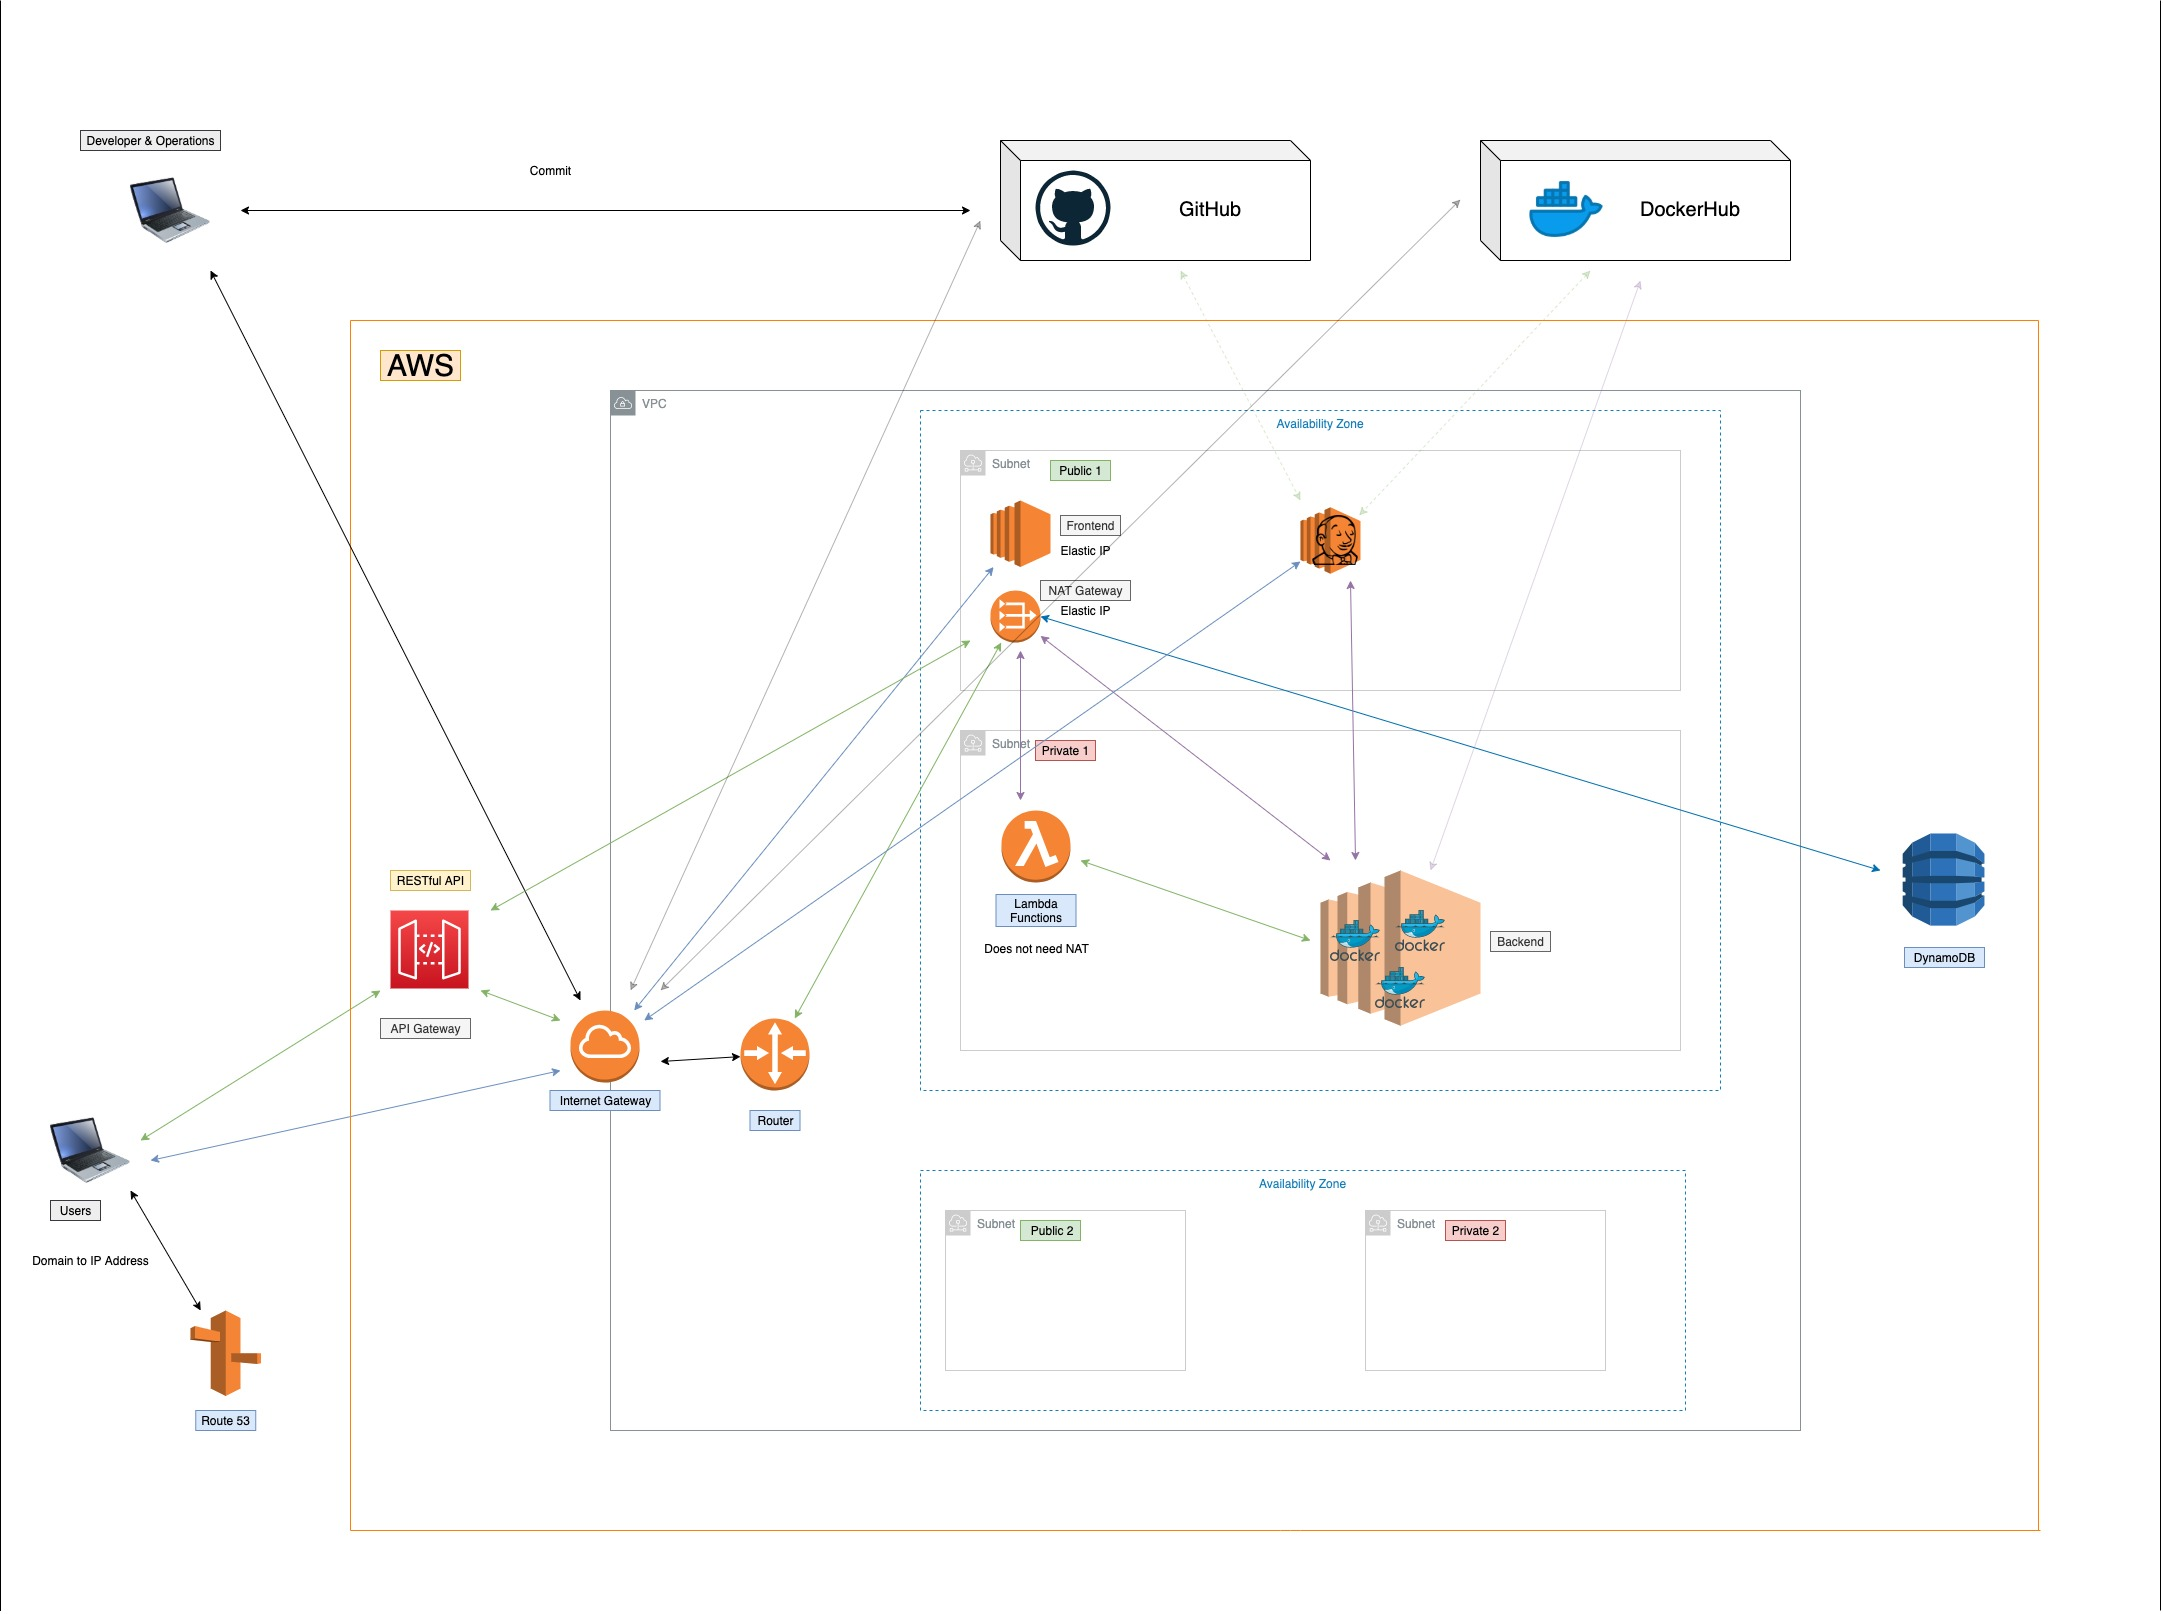
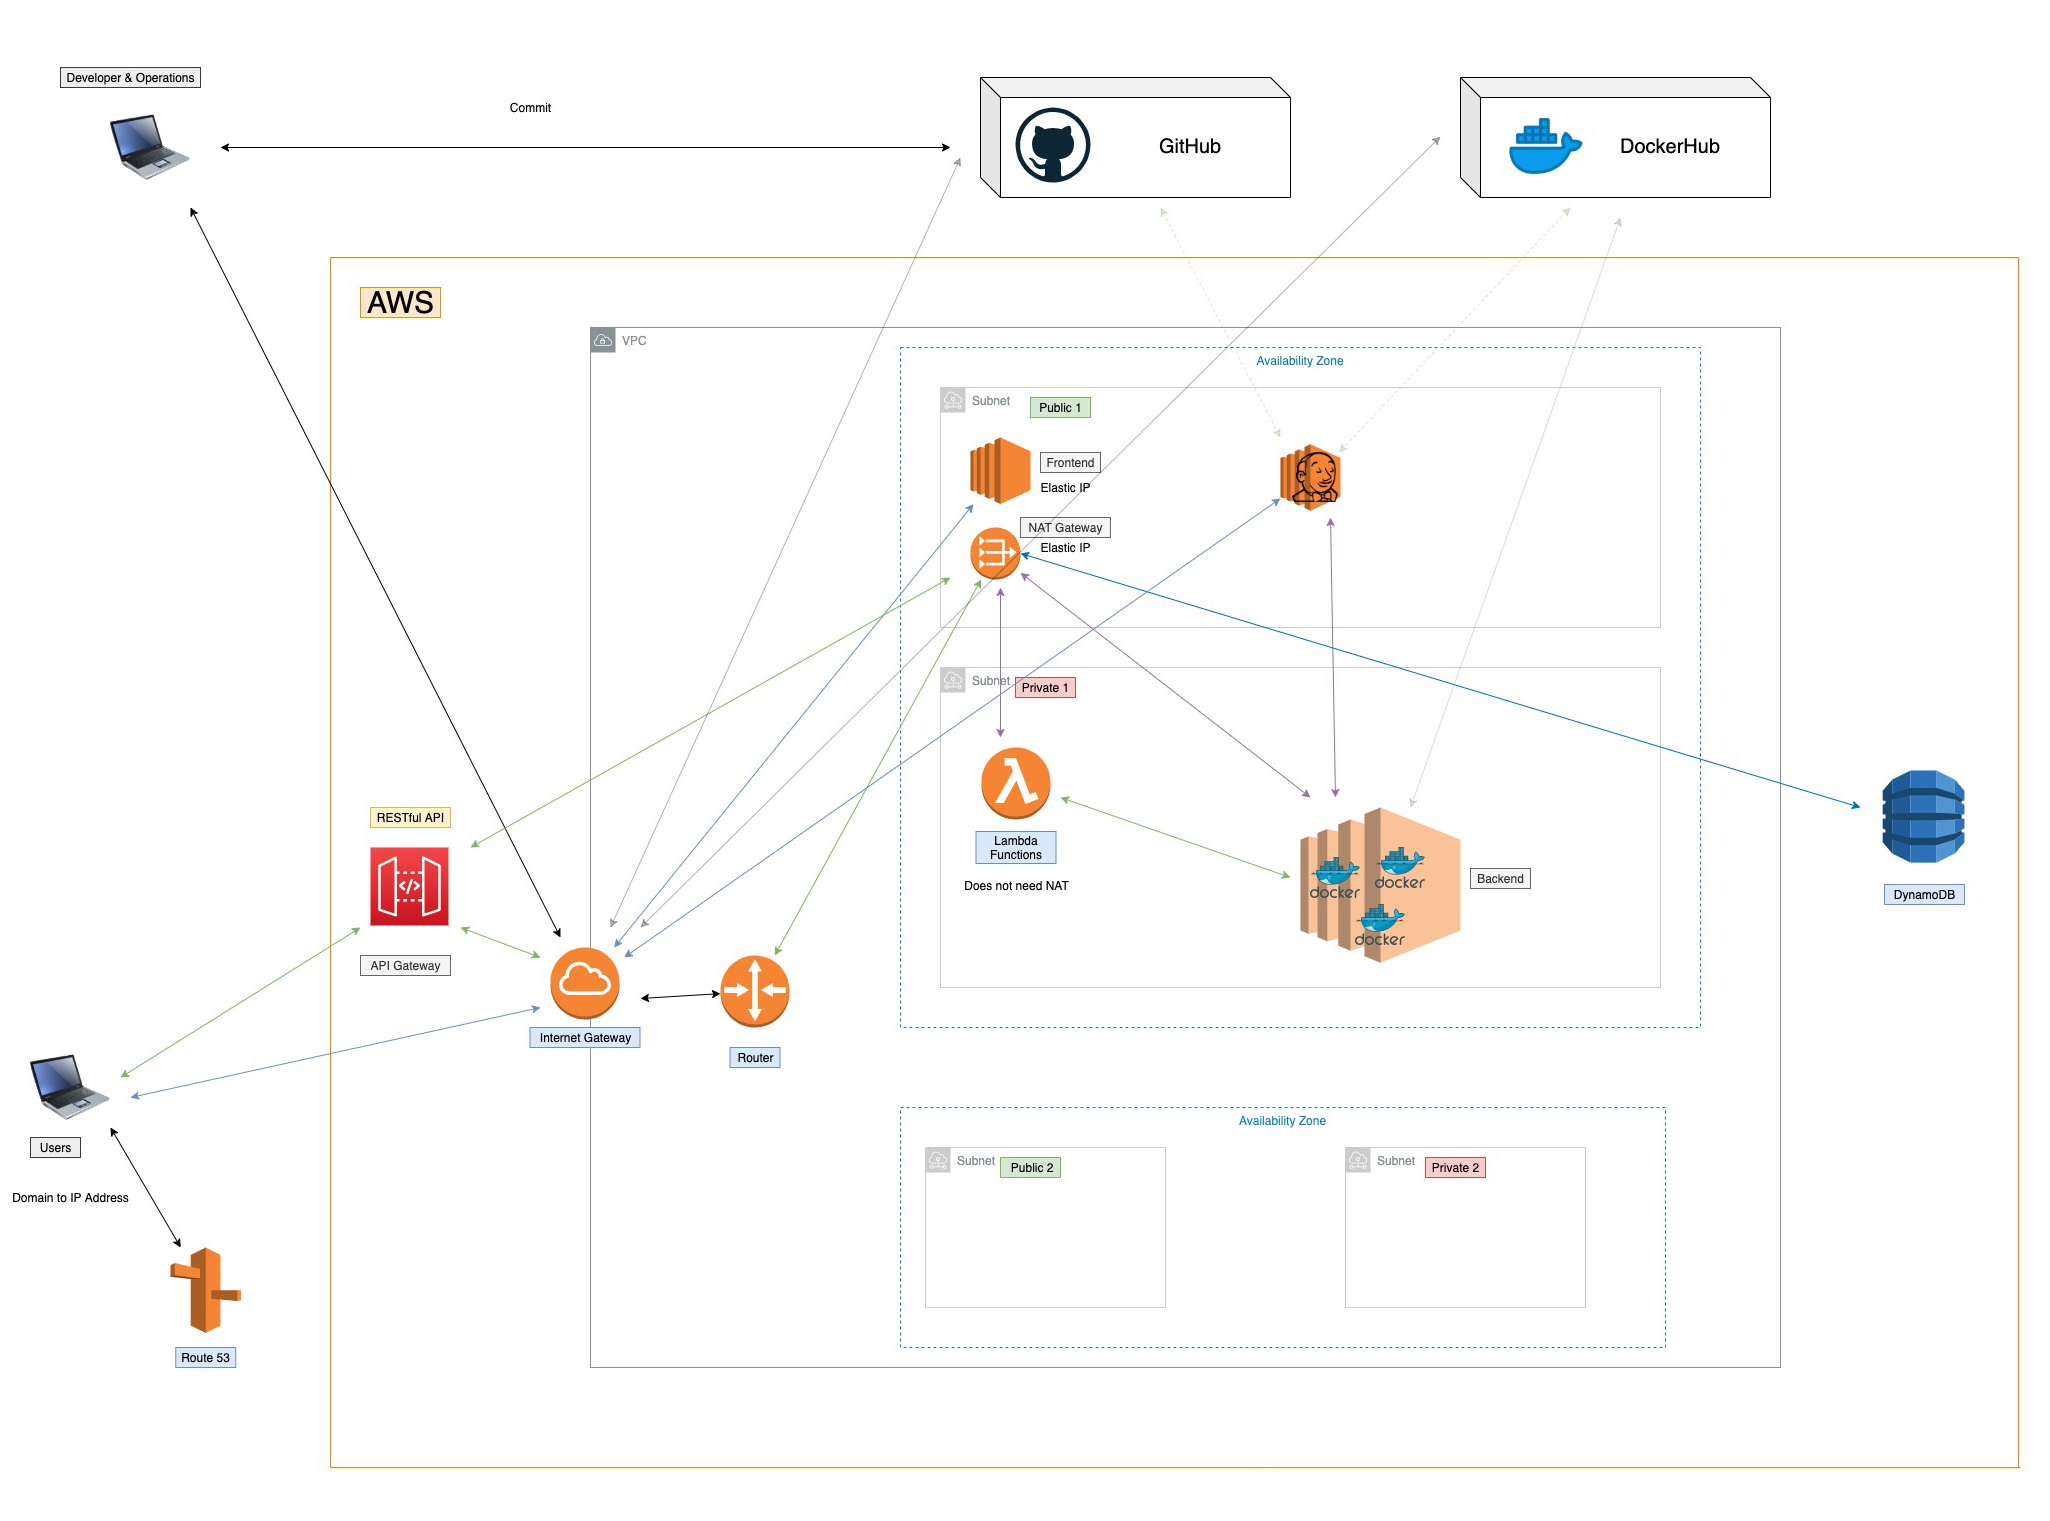
okay

diff --git a/README.md b/README.md
@@ -4,3 +4,12 @@
 ## How to build CI/CD Pipeline for DevBops Microserices
 
 ![Jenkins_Pipeline_Diagram](https://github.com/anishmoktan/DevBops_CICD_Pipeline/blob/main/images/DevBops_Jenkins.jpg)
+
+## Step 1: Spin up an EC2 on the Public Subnet   
+- DevBops is currently live on our production VPC. For our CI/CD pipieline, we are going to create an EC2 in the production server's public subnet to run a Jenkins server. Altough it is not a best practice to test the pipeline in a production environment, doing this exercise will allow us to better see how other AWS components are connected to our overall infrastructure. Jenkins server is built in our public subnet to give the EC2 access to the internet, where we can later access to the user interface on **port 8080** and configure a pipeline. 
+
+
+- 
+- Network: 	***DevBops_Production_VPC***
+- Subnet: ***DevBops-Prod-Public-1***
+- Auto-assign Public IP: ***Enable***
